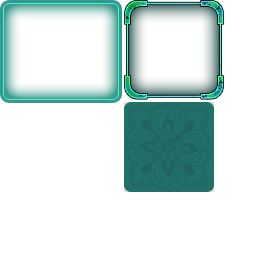
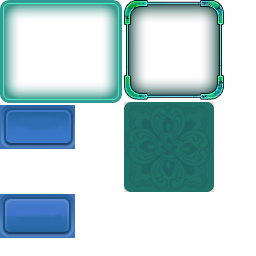
添加完成~不过不是添加格子~只是在现有格子下添加道具

Changed region(s): [[0.0, 0.75, 0.3125, 0.9375], [0.0, 0.4062, 0.3125, 0.5938]]

diff --git a/src/MainPanel.ts b/src/MainPanel.ts
@@ -1,7 +1,9 @@
 class MainPanel {
     private gComponent: fairygui.GComponent;
     private gList: fairygui.GList;
-    private gButton: fairygui.GButton;
+    private gButtonItem: fairygui.GButton;
+    private gButtonAdd: fairygui.GButton;
+    private listIndex: number;
 
     public constructor() {
         this.gComponent = fairygui.UIPackage.createObject("ForDemoBag", "ComponentMain").asCom;
@@ -11,13 +13,16 @@ class MainPanel {
         this.gList = this.gComponent.getChild("listBag").asList;
         this.gList.addEventListener(fairygui.ItemEvent.CLICK, this.ClickItem, this);
 
-        this.gButton = fairygui.UIPackage.createObject("ForDemoBag", "ButtomList").asButton;
+        this.gButtonItem = fairygui.UIPackage.createObject("ForDemoBag", "ButtomList").asButton;
 
-        for (let i: number = 0; i < 5; i++) {
+        this.gButtonAdd = this.gComponent.getChild("ButtonAdd").asButton;
+        this.gButtonAdd.addClickListener(this.ClickAdd, this);
+
+        for (this.listIndex = 0; this.listIndex < 5; this.listIndex++) {
             let randomItem = Math.floor(Math.random() * 10);
-            let button: fairygui.GButton = this.gList.getChildAt(i).asButton;
+            let button: fairygui.GButton = this.gList.getChildAt(this.listIndex).asButton;
             button.icon = `resource/assets/i${randomItem}.png`;
-            button.title = `Item: ${randomItem}`;
+            button.title = `这个是${randomItem}号道具，没功能，没特效，随机的`;
         }
     }
 
@@ -25,5 +30,17 @@ class MainPanel {
         var item: fairygui.GButton = <fairygui.GButton>evt.itemObject;
         this.gComponent.getChild("imageSelected").asLoader.url = item.icon;
         this.gComponent.getChild("textSelected").text = item.title;
+    }
+
+    private ClickAdd(): void {
+        let randomItem = Math.floor(Math.random() * 10);
+        if (this.listIndex < this.gList.numChildren) {
+            let button: fairygui.GButton = this.gList.getChildAt(this.listIndex++).asButton;
+            button.icon = `resource/assets/i${randomItem}.png`;
+            button.title = `这个是作弊添加的${randomItem}号道具，秒天秒地秒空气`;
+        } else {
+            //console.log("已经溢出列表，无法再添加");
+            this.listIndex = 0;
+        }
     }
 }

diff --git a/bin-debug/MainPanel.js b/bin-debug/MainPanel.js
@@ -8,18 +8,32 @@ var MainPanel = (function () {
         fairygui.GRoot.inst.addChild(this.gComponent);
         this.gList = this.gComponent.getChild("listBag").asList;
         this.gList.addEventListener(fairygui.ItemEvent.CLICK, this.ClickItem, this);
-        this.gButton = fairygui.UIPackage.createObject("ForDemoBag", "ButtomList").asButton;
-        for (var i = 0; i < 5; i++) {
+        this.gButtonItem = fairygui.UIPackage.createObject("ForDemoBag", "ButtomList").asButton;
+        this.gButtonAdd = this.gComponent.getChild("ButtonAdd").asButton;
+        this.gButtonAdd.addClickListener(this.ClickAdd, this);
+        for (this.listIndex = 0; this.listIndex < 5; this.listIndex++) {
             var randomItem = Math.floor(Math.random() * 10);
-            var button = this.gList.getChildAt(i).asButton;
+            var button = this.gList.getChildAt(this.listIndex).asButton;
             button.icon = "resource/assets/i" + randomItem + ".png";
-            button.title = "Item: " + randomItem;
+            button.title = "\u8FD9\u4E2A\u662F" + randomItem + "\u53F7\u9053\u5177\uFF0C\u6CA1\u529F\u80FD\uFF0C\u6CA1\u7279\u6548\uFF0C\u968F\u673A\u7684";
         }
     }
     MainPanel.prototype.ClickItem = function (evt) {
         var item = evt.itemObject;
         this.gComponent.getChild("imageSelected").asLoader.url = item.icon;
         this.gComponent.getChild("textSelected").text = item.title;
+    };
+    MainPanel.prototype.ClickAdd = function () {
+        var randomItem = Math.floor(Math.random() * 10);
+        if (this.listIndex < this.gList.numChildren) {
+            var button = this.gList.getChildAt(this.listIndex++).asButton;
+            button.icon = "resource/assets/i" + randomItem + ".png";
+            button.title = "\u8FD9\u4E2A\u662F\u4F5C\u5F0A\u6DFB\u52A0\u7684" + randomItem + "\u53F7\u9053\u5177\uFF0C\u79D2\u5929\u79D2\u5730\u79D2\u7A7A\u6C14";
+        }
+        else {
+            //console.log("已经溢出列表，无法再添加");
+            this.listIndex = 0;
+        }
     };
     return MainPanel;
 }());

diff --git a/bin-debug/Main.js b/bin-debug/Main.js
@@ -92,7 +92,7 @@ var Main = (function (_super) {
     //创建游戏场景
     Main.prototype.createGameScene = function () {
         fairygui.UIPackage.addPackage("ForDemoBag");
-        //fairygui.UIObjectFactory.setLoaderExtension(MyGLoader);
+        fairygui.UIObjectFactory.setLoaderExtension(MyGLoader);
         this.stage.addChild(fairygui.GRoot.inst.displayObject);
         this.mainPanel = new MainPanel();
     };
